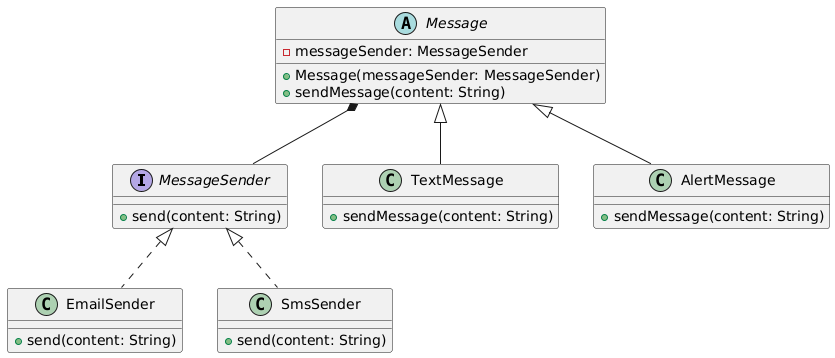
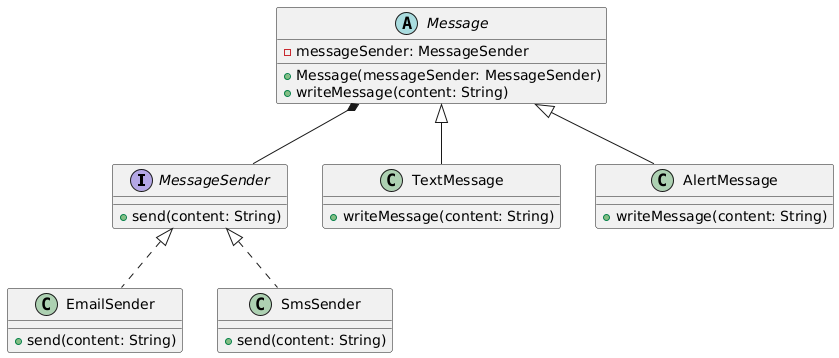
refactor

diff --git a/creationalPattern/builderPattern/builderForComplexObjectHierarchies/solution/Computer.java b/creationalPattern/builderPattern/builderForComplexObjectHierarchies/solution/Computer.java
@@ -1,0 +1,136 @@
+package creationalPattern.builderPattern.builderForComplexObjectHierarchies.solution;
+
+import java.util.ArrayList;
+import java.util.List;
+
+class Peripheral implements Cloneable {
+    private String name;
+    private double price;
+
+    public Peripheral(String name, double price) {
+        this.name = name;
+        this.price = price;
+    }
+
+    // Copy constructor for deep copy
+    public Peripheral(Peripheral other) {
+        this.name = other.name;
+        this.price = other.price;
+    }
+
+    @Override
+    public Peripheral clone() {
+        return new Peripheral(this);
+    }
+
+    @Override
+    public String toString() {
+        return "Peripheral{name='" + name + "', price=" + price + "}";
+    }
+}
+
+public class Computer implements Cloneable {
+
+    private final String processor;
+    private final int ram;
+
+    private final String graphicsCard;
+    private final String storageType;
+    private final List<Peripheral> additionalPeripherals;
+
+    private Computer(Builder builder) {
+        this.processor = builder.processor;
+        this.ram = builder.ram;
+        this.graphicsCard = builder.graphicsCard;
+        this.storageType = builder.storageType;
+        this.additionalPeripherals = builder.additionalPeripherals;
+    }
+
+    public static class Builder {
+        private final String processor;
+        private final int ram;
+
+        private String graphicsCard;
+        private String storageType;
+        private List<Peripheral> additionalPeripherals = new ArrayList<>();
+
+        public Builder(String processor, int ram) {
+            this.processor = processor;
+            this.ram = ram;
+        }
+
+        public Builder setGraphicsCard(String graphicsCard) {
+            this.graphicsCard = graphicsCard;
+            return this;
+        }
+
+        public Builder setStorageType(String storageType) {
+            this.storageType = storageType;
+            return this;
+        }
+
+        public Builder addPeripheral(Peripheral peripheral) {
+            this.additionalPeripherals.add(peripheral);
+            return this;
+        }
+
+        public Builder setAdditionalPeripherals(List<Peripheral> peripherals) {
+            this.additionalPeripherals = new ArrayList<>(peripherals);
+            return this;
+        }
+
+        public Computer build() {
+            return new Computer(this);
+        }
+    }
+
+    @Override
+    public Computer clone() {
+        List<Peripheral> clonedPeripherals = new ArrayList<>();
+        for (Peripheral p : this.additionalPeripherals) {
+            clonedPeripherals.add(p.clone());
+        }
+
+        return new Builder(this.processor, this.ram)
+                .setGraphicsCard(this.graphicsCard)
+                .setStorageType(this.storageType)
+                .setAdditionalPeripherals(clonedPeripherals)
+                .build();
+    }
+
+    @Override
+    public String toString() {
+        return "Computer{" +
+                "processor='" + processor + '\'' +
+                ", ram=" + ram +
+                ", graphicsCard='" + graphicsCard + '\'' +
+                ", storageType='" + storageType + '\'' +
+                ", additionalPeripherals=" + additionalPeripherals +
+                '}';
+    }
+}
+
+
+class Main {
+    public static void main(String[] args) {
+        Peripheral keyboard = new Peripheral("Mechanical Keyboard", 120.0);
+        Peripheral mouse = new Peripheral("Gaming Mouse", 80.0);
+        List<Peripheral> list = new ArrayList<>();
+        list.add(keyboard);
+        list.add(mouse);
+        Computer original = new Computer.Builder("AMD Ryzen 9", 32)
+                .setGraphicsCard("NVIDIA RTX 4080")
+                .setStorageType("SSD")
+                .setAdditionalPeripherals(list)
+                .addPeripheral(keyboard)
+                .addPeripheral(mouse)
+                .build();
+
+        System.out.println("Original:\n" + original);
+
+        // Clone the computer
+        Computer clone = original.clone();
+
+        System.out.println("\nCloned:\n" + clone);
+    }
+}

diff --git a/creationalPattern/factory/factoryMethod/parameterisedFactorymethod/solutions/Main.java b/creationalPattern/factory/factoryMethod/parameterisedFactorymethod/solutions/Main.java
@@ -1,0 +1,98 @@
+package creationalPattern.factory.factoryMethod.parameterisedFactorymethod.solutions;
+
+import java.util.Map;
+import java.util.HashMap;
+
+// Step 1: Payment Interface
+interface Payment {
+    void processPayment(double amount);
+}
+
+// Step 2: Concrete Payment Implementations
+class CreditCardPayment implements Payment {
+    private String cardNumber;
+
+    public CreditCardPayment(String cardNumber) {
+        this.cardNumber = cardNumber;
+    }
+
+    public void processPayment(double amount) {
+        System.out.println("Processing credit card payment of ₹" + amount + " using card number: " + cardNumber);
+    }
+}
+
+class DebitCardPayment implements Payment {
+    private String cardNumber;
+
+    public DebitCardPayment(String cardNumber) {
+        this.cardNumber = cardNumber;
+    }
+
+    public void processPayment(double amount) {
+        System.out.println("Processing debit card payment of ₹" + amount + " using card number: " + cardNumber);
+    }
+}
+
+class UPIPayment implements Payment {
+    private String upiId;
+
+    public UPIPayment(String upiId) {
+        this.upiId = upiId;
+    }
+
+    public void processPayment(double amount) {
+        System.out.println("Processing UPI payment of ₹" + amount + " using UPI ID: " + upiId);
+    }
+}
+
+// Step 3: PaymentFactory Interface
+abstract class PaymentFactory {
+    public abstract Payment createPaymentMethod(Map<String, String> params);
+}
+
+// Step 4: Concrete Factories
+class CreditCardFactory extends PaymentFactory {
+    public Payment createPaymentMethod(Map<String, String> params) {
+        String cardNumber = params.get("creditcardNumber");
+        return new CreditCardPayment(cardNumber);
+    }
+}
+
+class DebitCardFactory extends PaymentFactory {
+    public Payment createPaymentMethod(Map<String, String> params) {
+        String cardNumber = params.get("debitcardNumber");
+        return new DebitCardPayment(cardNumber);
+    }
+}
+
+class UPIFactory extends PaymentFactory {
+    public Payment createPaymentMethod(Map<String, String> params) {
+        String upiId = params.get("upiId");
+        return new UPIPayment(upiId);
+    }
+}
+
+class Main {
+    public static void main(String[] args) {
+        // Credit Card Payment
+        PaymentFactory creditFactory = new CreditCardFactory();
+        Map<String, String> creditParams = new HashMap<>();
+        creditParams.put("creditcardNumber", "1234-5678-9101-1121");
+        Payment creditPayment = creditFactory.createPaymentMethod(creditParams);
+        creditPayment.processPayment(1500.0);
+
+        // Debit Card Payment
+        PaymentFactory debitFactory = new DebitCardFactory();
+        Map<String, String> debitParams = new HashMap<>();
+        debitParams.put("debitcardNumber", "4321-8765-1098-2110");
+        Payment debitPayment = debitFactory.createPaymentMethod(debitParams);
+        debitPayment.processPayment(2000.0);
+
+        // UPI Payment
+        PaymentFactory upiFactory = new UPIFactory();
+        Map<String, String> upiParams = new HashMap<>();
+        upiParams.put("upiId", "user@upi");
+        Payment upiPayment = upiFactory.createPaymentMethod(upiParams);
+        upiPayment.processPayment(750.0);
+    }
+}

diff --git a/structuralPattern/bridgePattern/messagingSystem/solution/MessagingSystemDemo.java b/structuralPattern/bridgePattern/messagingSystem/solution/MessagingSystemDemo.java
@@ -31,7 +31,7 @@ abstract class Message {
         this.messageSender = messageSender;
     }
 
-    public abstract void sendMessage(String content);
+    public abstract void writeMessage(String content);
 }
 
 // Refined Abstractions
@@ -41,7 +41,7 @@ class TextMessage extends Message {
     }
 
     @Override
-    public void sendMessage(String content) {
+    public void writeMessage(String content) {
         messageSender.send("[TEXT] " + content);
     }
 }
@@ -52,7 +52,7 @@ class AlertMessage extends Message {
     }
 
     @Override
-    public void sendMessage(String content) {
+    public void writeMessage(String content) {
         messageSender.send("[ALERT] " + content);
     }
 }
@@ -64,9 +64,9 @@ public class MessagingSystemDemo {
         MessageSender smsSender = new SmsSender();
 
         Message msg1 = new TextMessage(emailSender);
-        msg1.sendMessage("Hi, Tanisha here!");
+        msg1.writeMessage("Hi, Tanisha here!");
 
         Message msg2 = new AlertMessage(smsSender);
-        msg2.sendMessage("⚠ Server CPU usage at 99%");
+        msg2.writeMessage("⚠ Server CPU usage at 99%");
     }
 }

diff --git a/questions/travelBookingApp/solution/solution.java b/questions/travelBookingApp/solution/solution.java
@@ -19,7 +19,8 @@ public class solution {
         LocalDateTime time = LocalDateTime.now().plusDays(9);
 
         System.out.println("\n----User1----\n");
-        Booking hotelBooking1 = new HotelBooking(UUID.randomUUID().toString(), "Delhi", "Azamgarh", user1, "5", LocalDateTime.now(), LocalDateTime.now().plusDays(5L));
+        Booking hotelBooking1 = new HotelBooking(UUID.randomUUID().toString(), "Delhi", "Azamgarh", user1, "5", 
+                LocalDateTime.now(), LocalDateTime.now().plusDays(5L));
         Booking hotelBooking2 = new HotelBooking(UUID.randomUUID().toString(), "Kolkata", "Mumbai", user1, "2",
                 time, LocalDateTime.now().plusDays(9));
         Booking hotelBooking3 = new HotelBooking(UUID.randomUUID().toString(), "Kolkata", "Mumbai", user1, "2",

diff --git a/structuralPattern/bridgePattern/uiFrameworkDesign/solution/solution.java b/structuralPattern/bridgePattern/uiFrameworkDesign/solution/solution.java
@@ -1,5 +1,11 @@
 package structuralPattern.bridgePattern.uiFrameworkDesign.solution;
 
+/*
+ * "In my design, UIComponent defines the what (i.e., actions like onClick, onSelect), and 
+ * Platforms defines the how (i.e., rendering per OS). They are independently extendable, 
+ * fully following the Bridge Pattern's goal to decouple abstraction and implementation."
+ */
+
 interface Platforms {
     void renderOnclick(String action, boolean onClickStatus);
     void renderOnselect(String action, boolean onSelectStatus);

diff --git a/structuralPattern/decoratorPattern/PizzaDecorator/solution/plainPizza/StuffedCrust.java b/structuralPattern/decoratorPattern/PizzaDecorator/solution/plainPizza/StuffedCrust.java
@@ -3,6 +3,6 @@ package structuralPattern.decoratorPattern.PizzaDecorator.solution.plainPizza;
 public class StuffedCrust extends basePizza {
     public StuffedCrust() {
         price = 133;
-        description = "Thick crust";
+        description = "Suffed crust";
     }
 }
